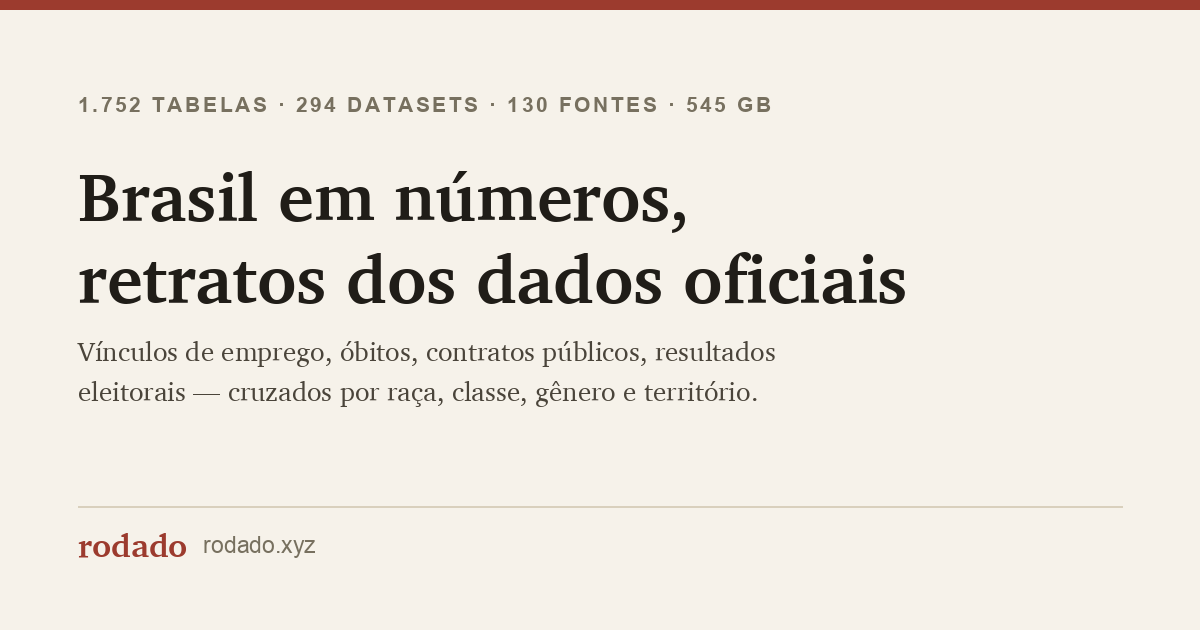
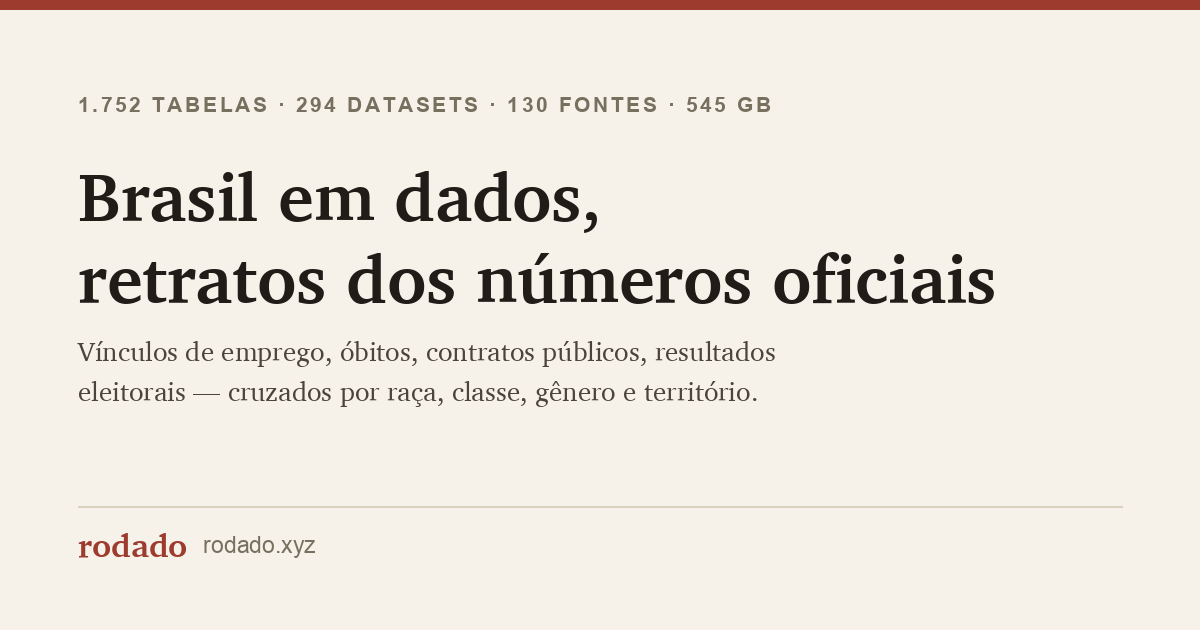
docs: título vira Brasil em dados, retratos dos números oficiais
Home (title, og, twitter, h1), versão em inglês, README, manifest e os
cartões og.png/og-en.png regerados.

Changed region(s): [[0.4008, 0.3921, 0.8325, 0.4825], [0.3083, 0.2714, 0.5858, 0.3619]]

diff --git a/pages/index.html b/pages/index.html
@@ -3,7 +3,7 @@
 <head>
 <meta charset="utf-8">
 <meta name="viewport" content="width=device-width, initial-scale=1">
-<title>rodado — Brasil em números, retratos dos dados oficiais</title>
+<title>rodado — Brasil em dados, retratos dos números oficiais</title>
 <meta name="description" content="1.752 tabelas de dados oficiais brasileiros cruzadas em 43 investigações sobre desigualdade, poder, economia, saúde e violência — o retrato que o Estado já tem de si mesmo.">
 <!-- seo:start (gerado por scripts/gera_seo.py — não editar à mão) -->
 <link rel="canonical" href="https://rodado.xyz/">
@@ -14,14 +14,14 @@
 <meta property="og:site_name" content="rodado">
 <meta property="og:locale" content="pt_BR">
 <meta property="og:url" content="https://rodado.xyz/">
-<meta property="og:title" content="rodado — Brasil em números, retratos dos dados oficiais">
+<meta property="og:title" content="rodado — Brasil em dados, retratos dos números oficiais">
 <meta property="og:description" content="1.752 tabelas de dados oficiais brasileiros cruzadas em 43 investigações sobre desigualdade, poder, economia, saúde e violência — o retrato que o Estado já tem de si mesmo.">
 <meta property="og:image" content="https://rodado.xyz/assets/og.png">
 <meta property="og:image:width" content="1200">
 <meta property="og:image:height" content="630">
-<meta property="og:image:alt" content="rodado — Brasil em números, retratos dos dados oficiais">
+<meta property="og:image:alt" content="rodado — Brasil em dados, retratos dos números oficiais">
 <meta name="twitter:card" content="summary_large_image">
-<meta name="twitter:title" content="rodado — Brasil em números, retratos dos dados oficiais">
+<meta name="twitter:title" content="rodado — Brasil em dados, retratos dos números oficiais">
 <meta name="twitter:description" content="1.752 tabelas de dados oficiais brasileiros cruzadas em 43 investigações sobre desigualdade, poder, economia, saúde e violência — o retrato que o Estado já tem de si mesmo.">
 <meta name="twitter:image" content="https://rodado.xyz/assets/og.png">
 <link rel="icon" href="assets/favicon.ico" sizes="any">
@@ -68,7 +68,7 @@
 
 <main class="wide">
   <p class="eyebrow">1.752 tabelas · 294 datasets · 130 fontes · 545 GB</p>
-  <h1>Brasil em números, retratos dos dados oficiais</h1>
+  <h1>Brasil em dados, retratos dos números oficiais</h1>
   <p class="dek">O retrato que o Estado brasileiro já tem de si mesmo: 1.752 tabelas oficiais — do nascimento ao óbito, do CNPJ ao voto, do orçamento federal à vazão dos rios — cruzadas para mostrar o que nenhuma revela sozinha.</p>
 
   <p class="lede">Comece pelos <a href="/temas/">43 temas</a> ou explore as plataformas e os mapas abaixo.</p>

diff --git a/pages/en.html b/pages/en.html
@@ -68,7 +68,7 @@
 
 <main class="wide">
   <p class="eyebrow">1,752 tables · 294 datasets · 130 sources · 545 GB</p>
-  <h1>Brazil in numbers, portraits from official data</h1>
+  <h1>Brazil in data, portraits of the official numbers</h1>
   <p class="dek">The portrait the Brazilian State already has of itself: 1,752 official tables — from birth to death, from company registry to ballot box, from federal budget to river flow — cross-referenced to show what none of them reveals alone.</p>
 
   <p class="lede">Written in Portuguese first, with full English translations of all 43 essays. Start with the <a href="/temas-en/">43 themes</a> or explore the platforms and maps below.</p>

diff --git a/scripts/gera_og_image.py b/scripts/gera_og_image.py
@@ -38,12 +38,12 @@ PAD = 78
 VARIANTS = {
     "og.png": {
         "eyebrow": "1.752 TABELAS · 294 DATASETS · 130 FONTES · 545 GB",
-        "head": ["Brasil em números,", "retratos dos dados oficiais"],
+        "head": ["Brasil em dados,", "retratos dos números oficiais"],
         "dek": "Vínculos de emprego, óbitos, contratos públicos, resultados\neleitorais — cruzados por raça, classe, gênero e território.",
     },
     "og-en.png": {
         "eyebrow": "1,752 TABLES · 294 DATASETS · 130 SOURCES · 545 GB",
-        "head": ["Brazil by the numbers,", "portraits from official data"],
+        "head": ["Brazil in data,", "portraits of the official numbers"],
         "dek": "Employment records, deaths, public contracts, election results —\ncross-referenced by race, class, gender and territory.",
     },
     # o cartão de /atlas/ (scripts/build_atlas.py aponta para ele)

diff --git a/scripts/gera_favicon.py b/scripts/gera_favicon.py
@@ -74,7 +74,7 @@ def main() -> None:
     print(f"{assets / 'apple-touch-icon.png'}")
 
     manifest = {
-        "name": "rodado — Brasil em números",
+        "name": "rodado — Brasil em dados",
         "short_name": "rodado",
         "description": "Dados públicos brasileiros cruzados em investigações sobre desigualdade, poder, economia, saúde e violência.",
         "start_url": "/",

diff --git a/README.md b/README.md
@@ -1,4 +1,4 @@
-# rodado — Brasil em números, retratos dos dados oficiais
+# rodado — Brasil em dados, retratos dos números oficiais
 
 > 1.752 tabelas públicas brasileiras — de instituições oficiais (RAIS, SIM, TSE, CGU, IBGE, INEP, CNES e outras), somadas a 102 fontes raspadas de forma independente — lidas a partir de perguntas investigativas, não de uma vitrine técnica: o que esses registros, cruzados, revelam sobre desigualdade, poder, economia, saúde e violência no Brasil?
 
